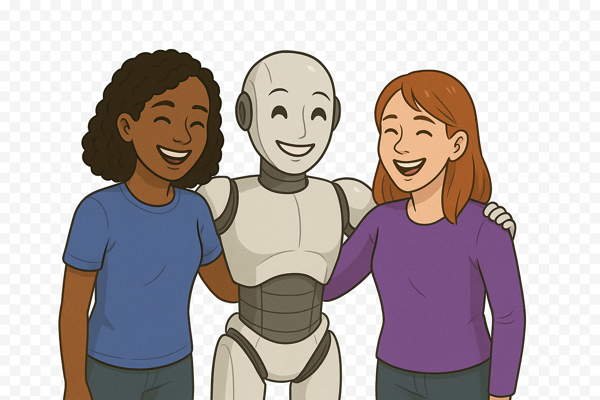
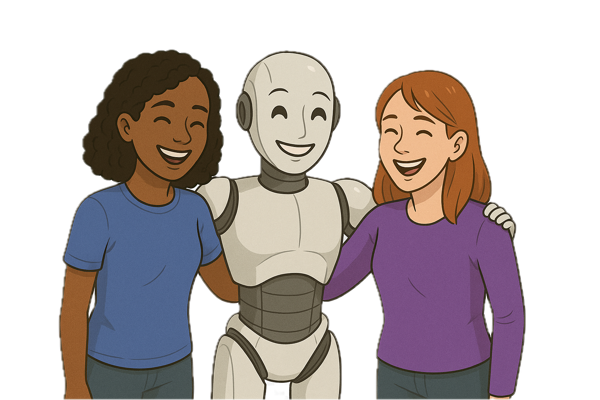
Regenerate the WiT artwork from the de-backgrounded source
The source now carries a real alpha channel (hasAlpha=yes, and 1.9 MB
rather than 2.3 MB) — the baked-in checkerboard is gone. The derived
600x400 copy was still the old flattened one, so it kept showing the grey
grid regardless.

Regenerated: 600x400, alpha preserved, 276 KB.

Also drops the border and corner radius. Those made sense while the image
was an opaque rectangle; with a cut-out they would draw a box around
empty space on three sides of the figures and clip nothing at the
corners. The artwork now sits directly on the card.

diff --git a/html/about-irenes-ventures.html b/html/about-irenes-ventures.html
@@ -90,10 +90,12 @@
      mismatch is resolved by clipping (cover) or by padding (contain). With height:auto
      the box simply IS the image's proportions, so neither can happen.
      288px = 3in at 96px/inch; the 600x400 file then renders 192px (2in) tall. */
+  /* No border or radius: the artwork now has a real alpha channel, so it is a cut-out
+     rather than a rectangle. A border would draw a box around empty space on three sides
+     of the figures, and a corner radius would clip nothing. It sits directly on the card. */
   .venture-image{
     display:block; width:100%; max-width:288px; height:auto;
-    border-radius:11px; margin-bottom:14px;
-    border:1px solid var(--border);
+    margin-bottom:14px;
   }
 
   /* Ventures with no live address yet — visibly unfinished rather than a dead link. */
